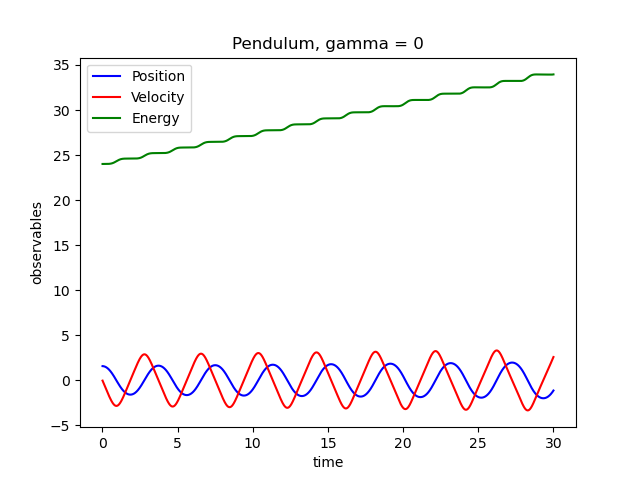
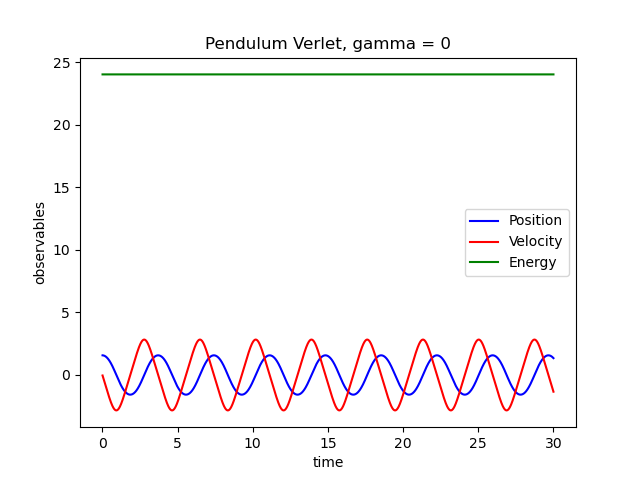
RK4 fixad!!

diff --git a/pendulum.py b/pendulum.py
@@ -126,10 +126,11 @@ class VerletIntegrator(BaseIntegrator):
 
         # TODO: Implement the integration here, updating osc.theta and osc.dtheta
         
-        accel1 = simsystem.force(osc) / osc.m
 
         osc.theta = osc.theta + osc.dtheta * self.dt + 0.5 * accel * self.dt ** 2
+        accel1 = simsystem.force(osc) / osc.m
         osc.dtheta = osc.dtheta + 0.5 * (accel1 + accel) * self.dt
+    
 
 
 class RK4Integrator(BaseIntegrator):
@@ -138,36 +139,37 @@ class RK4Integrator(BaseIntegrator):
         # osc.t += self.dt
 
         # TODO: Implement the integration here, updating osc.theta and osc.dtheta
-
-        a1 = accel * self.dt
-        b1 = osc.dtheta * self.dt
+        
         theta_temp = osc.theta
         dtheta_temp = osc.dtheta
         t_temp = osc.t
 
-        osc.theta = theta_temp + b1 * 0.5
-        osc.dtheta = dtheta_temp + a1 * 0.5
-        osc.t = t_temp + self.dt * 0.5
+        a1 = accel * self.dt
+        b1 = dtheta_temp * self.dt
+
+        osc.theta = theta_temp + (b1 * 0.5)
+        osc.dtheta = dtheta_temp + (a1 * 0.5)
+        osc.t = t_temp + (self.dt * 0.5)
 
         a2 = (simsystem.force(osc) / osc.m) * self.dt
-        b2 = (dtheta_temp + a1 * 0.5) * self.dt
+        b2 = (dtheta_temp + (a1 * 0.5)) * self.dt
 
-        osc.theta = theta_temp + b2 * 0.5
-        osc.dtheta = dtheta_temp + a2 * 0.5
-        osc.t = t_temp + self.dt * 0.5
+        osc.theta = theta_temp + (b2 * 0.5)
+        osc.dtheta = dtheta_temp + (a2 * 0.5)
 
-        a3 = (simsystem.force(osc) / osc.m) * self.dt
-        b3 = (dtheta_temp + a2 * 0.5) * self.dt
+        a3 = (simsystem.force(osc)  / osc.m) * self.dt
+        b3 = (dtheta_temp + (a2 * 0.5)) * self.dt
 
         osc.theta = theta_temp + b3
-        osc.dtheta = dtheta_temp + a1
+        osc.dtheta = dtheta_temp + a3
         osc.t = t_temp + self.dt
 
         a4 = (simsystem.force(osc) / osc.m) * self.dt
         b4 = (dtheta_temp + a3) * self.dt
 
-        osc.dtheta = dtheta_temp + ((1/6) * (b1 + 2 * b2 + 2 * b3 + b4))
-        osc.theta = theta_temp + ((1/6) * (a1 + 2 * a2 + 2 * a3 + a4))
+        osc.dtheta = dtheta_temp + ((a1 + (2 * a2) + (2 * a3) + a4) / 6)
+        osc.theta = theta_temp + ((b1 + (2 * b2) + (2 * b3) + b4) / 6)
+
 
 
 
@@ -260,9 +262,9 @@ def exercise_11() :
     # TODO
     sim11 = Simulation()
 
-    sim11.reset()
-    sim11.run(simsystem=Pendulum(), integrator=RK4Integrator(0.2))
-    sim11.plot_observables(title = "Pendulum, gamma = 0")
+    sim11.run(simsystem=Pendulum(), integrator=VerletIntegrator())
+    sim11.plot_observables(title = "Pendulum Verlet, gamma = 0")
+
 
 def exercise_12():
     T = 2 * np.pi * sqrt(Oscillator.L / G) * (1 + 1/16 * Oscillator.theta ** 2 + 11/3072 * Oscillator.theta ** 4 + 173/737280 * Oscillator.theta ** 6)
